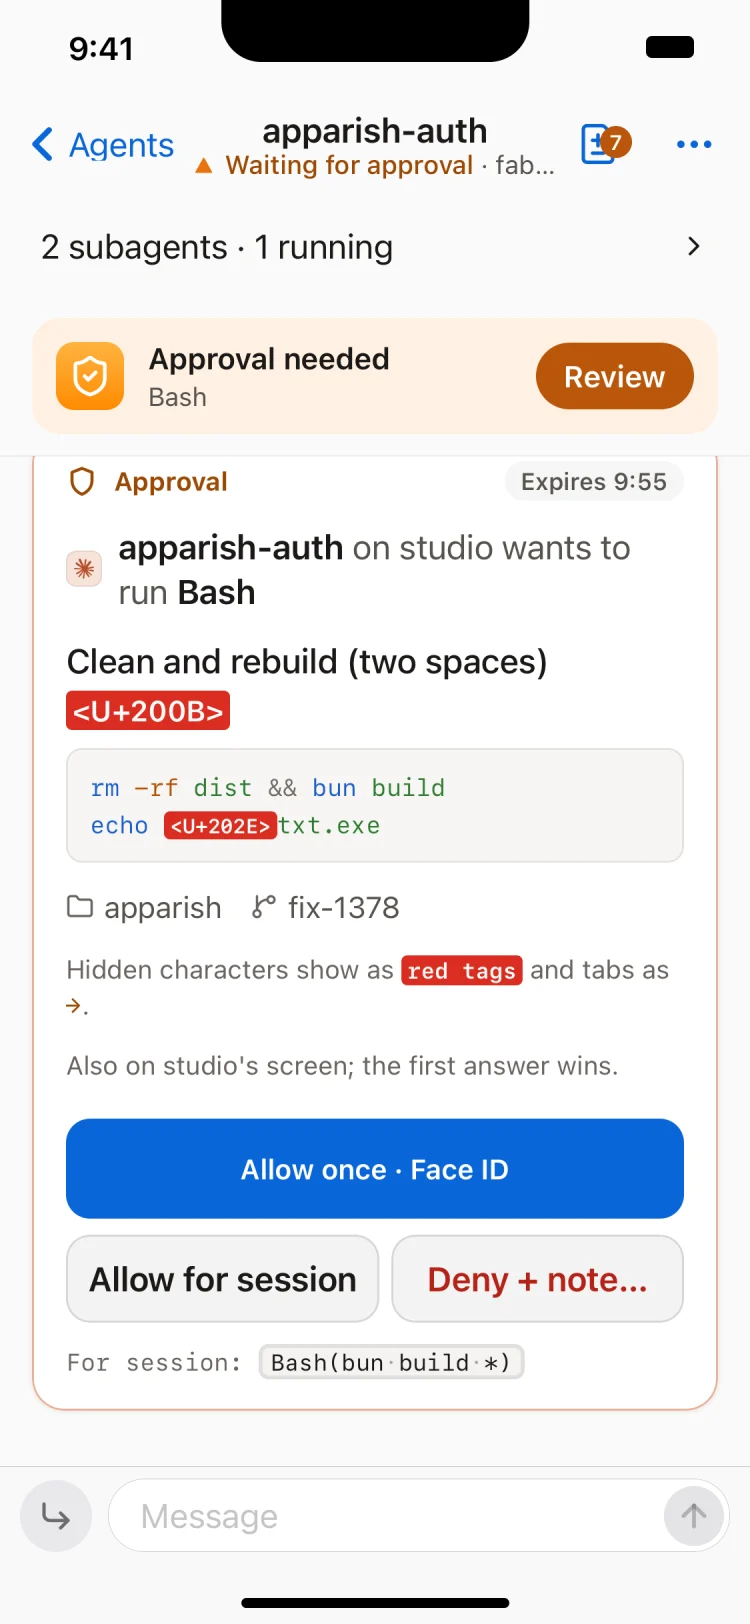
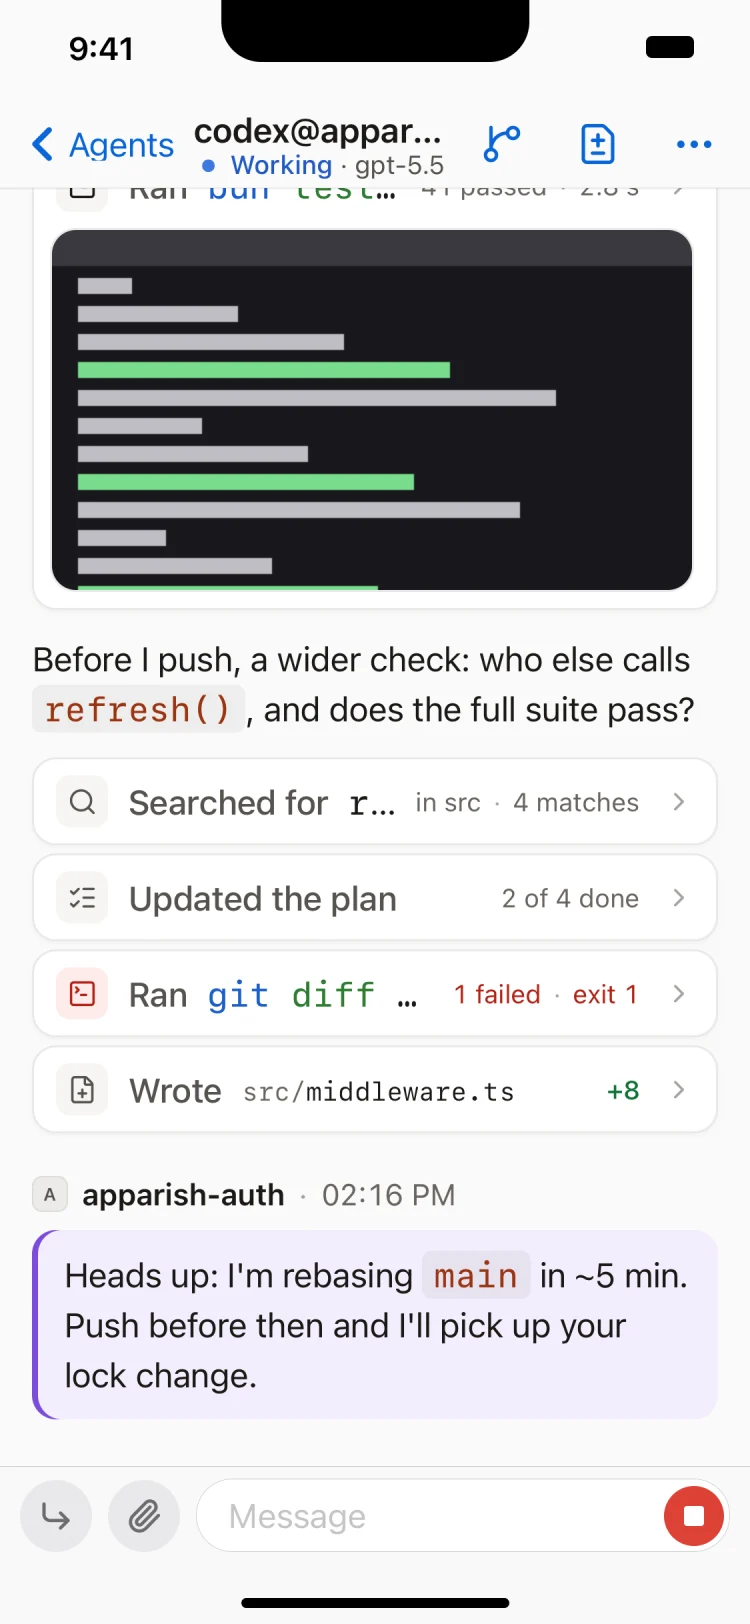
Retake README screenshots with clean demo data
The phone shot now shows a working Codex session with tool cards and a
peer message. The small README pool gets a plain approval and no huge
fixture file; the test fixtures stay as they are.

diff --git a/web/mock/data.ts b/web/mock/data.ts
@@ -700,6 +700,9 @@ export function makeInteraction(a: MockAgent, kind: string): Approval {
 	}
 }
 
+/** PULSAR_MOCK_POOL=small: the README screenshots (see the end of this file). */
+export const README_POOL = process.env.PULSAR_MOCK_POOL === "small";
+
 addNeeds(FIX.auth, "approval");
 FIX.auth.approval = {
 	requestId: "apr_fixture1",
@@ -707,12 +710,18 @@ FIX.auth.approval = {
 	machine: FIX.auth.machine,
 	createdAt: NOW0,
 	state: "pending",
-	sessionRules: ["Bash(bun build *)"],
+	sessionRules: [README_POOL ? "Bash(bun run build *)" : "Bash(bun build *)"],
 	tool: "Bash",
-	input: {
-		command: "rm -rf dist && bun build\necho \u202Etxt.exe",
-		description: "Clean and rebuild  (two spaces)\u200B",
-	},
+	// The README shots get a plain command; the tests' one hides characters.
+	input: README_POOL
+		? {
+				command: "bun run build && bun test test/auth.test.ts",
+				description: "Rebuild and run the auth tests",
+			}
+		: {
+				command: "rm -rf dist && bun build\necho \u202Etxt.exe",
+				description: "Clean and rebuild  (two spaces)\u200B",
+			},
 	inputHash: "sha256:9f2c41d07ab3e85c",
 	cwd: "~/Projects/apparish",
 	branch: "fix-1378",
@@ -783,7 +792,7 @@ export const OMP_BLOCKS = makeAgent(machines.at(-1)!, "demo", {
  * for README screenshots. Filtered after generation so the seeded pool stays
  * the same.
  */
-if (process.env.PULSAR_MOCK_POOL === "small") {
+if (README_POOL) {
 	const keep = new Set(["studio", "mbp-a", "mbp-b", "desk"]);
 	const prune = <T>(xs: T[], ok: (x: T) => boolean) =>
 		xs.splice(0, xs.length, ...xs.filter(ok));

diff --git a/web/e2e/readme.screens.ts b/web/e2e/readme.screens.ts
@@ -145,27 +145,16 @@ test.describe("readme screens", () => {
 		only("phone");
 		await phoneChrome(page);
 		await faceId(page);
-		const id = await agentId(request, "name=apparish-auth");
+		// A working agent with tool cards and a message from a peer: clean
+		// demo data, unlike apparish-auth's approval fixture.
+		const id = await agentId(request, "name=codex@apparish");
 		await home(page);
 		await page.goto(`/#/a/${encodeURIComponent(id)}`);
-		await page.locator(".p-nav-title h1").waitFor();
+		await page.locator(".p-nav-title h1").first().waitFor();
+		await page.getByText("Heads up: I'm rebasing").last().waitFor();
 		await page.waitForTimeout(1500);
-		// Open the last file write and stay at the bottom, past the image.
-		const write = page
-			.locator(".ev.tool[data-tool='Write'], [data-tool='Write']")
-			.last();
-		if (await write.count()) {
-			await write.locator("button").first().click();
-			await page.waitForTimeout(500);
-		}
-		const jump = page.getByRole("button", { name: /Jump to latest|latest/i });
-		if (
-			await jump
-				.first()
-				.isVisible()
-				.catch(() => false)
-		)
-			await jump.first().click();
+		const jump = page.getByRole("button", { name: "Jump to latest" });
+		if (await jump.isVisible()) await jump.click();
 		await page.waitForTimeout(800);
 		await shot(page, "phone-session");
 	});

diff --git a/web/mock/changes.ts b/web/mock/changes.ts
@@ -10,7 +10,7 @@ import type {
 	ChangesSummary,
 	FileDiff,
 } from "../../src/http/wire.ts";
-import type { MockAgent } from "./data.ts";
+import { type MockAgent, README_POOL } from "./data.ts";
 
 interface MockFile {
 	file: Omit<ChangedFile, "key">;
@@ -238,7 +238,10 @@ function filesOf(a: MockAgent): MockFile[] | "not_a_repo" {
 	if (!s) {
 		s =
 			a.name === "apparish-auth"
-				? authFiles()
+				? // The README shots leave out the huge fixture file.
+					authFiles().filter(
+						(f) => !(README_POOL && f.file.path === "fixtures/recording.json"),
+					)
 				: a.name === "omp@apparish"
 					? "not_a_repo"
 					: [];

diff --git a/web/mock/transcript.ts b/web/mock/transcript.ts
@@ -573,7 +573,8 @@ function showcase(log: Log, agent: MockAgent): TranscriptEvent[] {
 		role: "peer",
 		kind: "peer",
 		text: "Heads up: I'm rebasing `main` in ~5 min. Push before then and I'll pick up your lock change.",
-		from: "codex@apparish · m_7a1",
+		// Never from the session's own agent (the codex README shot).
+		from: `${agent === FIX.codex ? "apparish-auth" : "codex@apparish"} · m_7a1`,
 	});
 	return out;
 }
